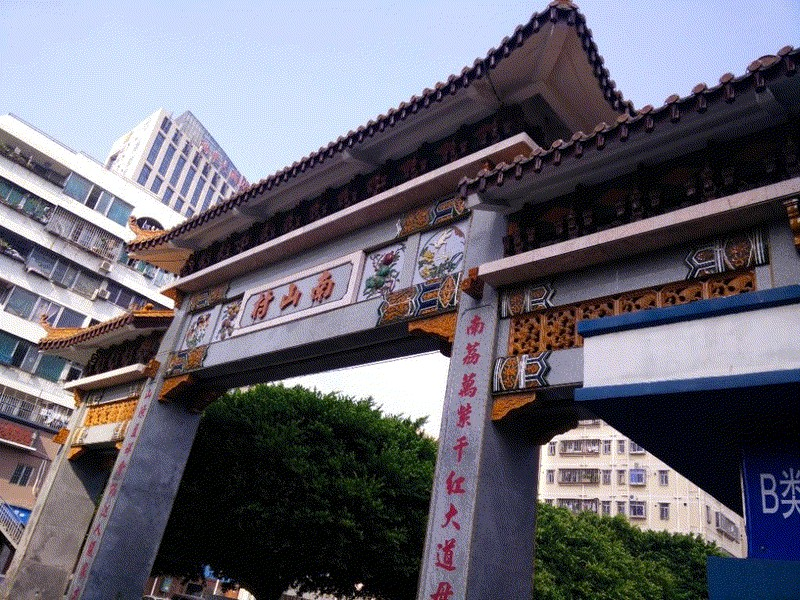
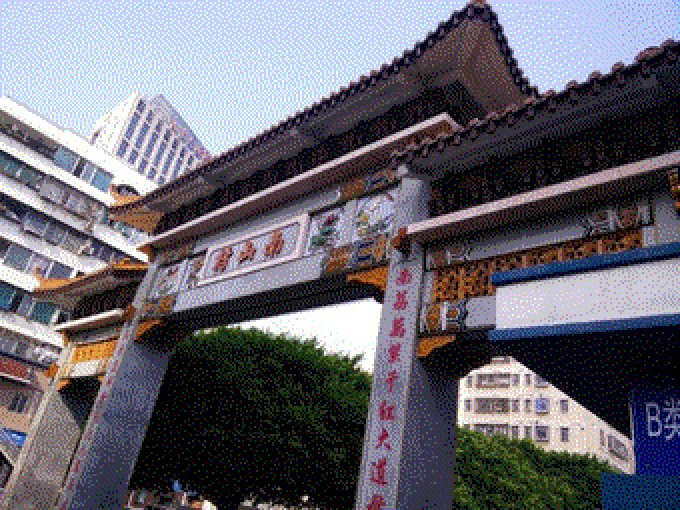
Apply bold, chunky 90s Web-Safe 8-bit Floyd-Steinberg dither with crisp pixelated rendering across all images

diff --git a/scripts/dither_chunky_all.js b/scripts/dither_chunky_all.js
@@ -1,0 +1,121 @@
+const sharp = require('sharp');
+const fs = require('fs');
+const path = require('path');
+
+// 90s Web-safe / Windows 98 216-color palette quantization
+function quantizeChunky8Bit(r, g, b) {
+  const rq = Math.round(r / 51) * 51;
+  const gq = Math.round(g / 51) * 51;
+  const bq = Math.round(b / 51) * 51;
+  return [
+    Math.min(255, Math.max(0, rq)),
+    Math.min(255, Math.max(0, gq)),
+    Math.min(255, Math.max(0, bq))
+  ];
+}
+
+async function ditherImageChunky(filePath) {
+  console.log(`Processing chunky 90s dither for: ${path.basename(filePath)}...`);
+  const image = sharp(filePath);
+  const metadata = await image.metadata();
+
+  const isPng = filePath.endsWith('.png');
+  const targetLowWidth = isPng ? Math.min(128, metadata.width) : 340;
+  const wTarget = Math.min(targetLowWidth, metadata.width || targetLowWidth);
+
+  // 1. Downscale to low resolution
+  const lowRes = await image
+    .resize({ width: wTarget })
+    .raw()
+    .toBuffer({ resolveWithObject: true });
+
+  const { data, info } = lowRes;
+  const w = info.width;
+  const h = info.height;
+  const channels = info.channels;
+
+  const buf = new Float32Array(w * h * 3);
+  for (let i = 0; i < w * h; i++) {
+    buf[i * 3] = data[i * channels];
+    buf[i * 3 + 1] = data[i * channels + 1];
+    buf[i * 3 + 2] = data[i * channels + 2];
+  }
+
+  const outputBuf = Buffer.alloc(w * h * channels);
+
+  // 2. Floyd-Steinberg Dithering
+  for (let y = 0; y < h; y++) {
+    for (let x = 0; x < w; x++) {
+      const pIdx = y * w + x;
+      const idx3 = pIdx * 3;
+      const idxC = pIdx * channels;
+
+      const oldR = buf[idx3];
+      const oldG = buf[idx3 + 1];
+      const oldB = buf[idx3 + 2];
+
+      const [newR, newG, newB] = quantizeChunky8Bit(oldR, oldG, oldB);
+
+      outputBuf[idxC] = newR;
+      outputBuf[idxC + 1] = newG;
+      outputBuf[idxC + 2] = newB;
+
+      if (channels === 4) {
+        outputBuf[idxC + 3] = data[idxC + 3];
+      }
+
+      const errR = oldR - newR;
+      const errG = oldG - newG;
+      const errB = oldB - newB;
+
+      const distributeError = (nx, ny, weight) => {
+        if (nx >= 0 && nx < w && ny >= 0 && ny < h) {
+          const nIdx3 = (ny * w + nx) * 3;
+          buf[nIdx3] += errR * weight;
+          buf[nIdx3 + 1] += errG * weight;
+          buf[nIdx3 + 2] += errB * weight;
+        }
+      };
+
+      distributeError(x + 1, y, 7 / 16);
+      distributeError(x - 1, y + 1, 3 / 16);
+      distributeError(x, y + 1, 5 / 16);
+      distributeError(x + 1, y + 1, 1 / 16);
+    }
+  }
+
+  // 3. Upscale using Nearest Neighbor to double size so dither pixels are crisp 2x2 blocks
+  const scaleFactor = isPng ? 1 : 2;
+  const outWidth = w * scaleFactor;
+
+  const tmpPath = filePath + '.chunky.tmp';
+
+  let pipeline = sharp(outputBuf, {
+    raw: { width: w, height: h, channels }
+  })
+    .resize({ width: outWidth, kernel: sharp.kernel.nearest })
+    .withMetadata();
+
+  if (isPng) {
+    await pipeline.png({ palette: true, colors: 256 }).toFile(tmpPath);
+  } else {
+    await pipeline.jpeg({ quality: 85, chromaSubsampling: '4:2:0' }).toFile(tmpPath);
+  }
+
+  fs.renameSync(tmpPath, filePath);
+  console.log(`Finished chunky 90s dither: ${path.basename(filePath)}`);
+}
+
+async function main() {
+  const imagesDir = path.join(__dirname, '..', 'src', 'assets', 'images');
+  const files = fs.readdirSync(imagesDir).filter(f => f.endsWith('.jpg') || f.endsWith('.png'));
+
+  for (const file of files) {
+    const filePath = path.join(imagesDir, file);
+    await ditherImageChunky(filePath);
+  }
+
+  console.log('All images successfully converted to chunky 90s 8-bit dithered versions!');
+}
+
+main().catch(console.error);

diff --git a/src/assets/styles/desktop.css b/src/assets/styles/desktop.css
@@ -187,6 +187,9 @@
   object-fit: contain;
   box-shadow: 0 4px 15px rgba(0,0,0,0.5);
   border: 2px solid #ffffff;
+  image-rendering: pixelated;
+  image-rendering: -moz-crisp-edges;
+  image-rendering: crisp-edges;
 }
 
 .photo-details-panel {
